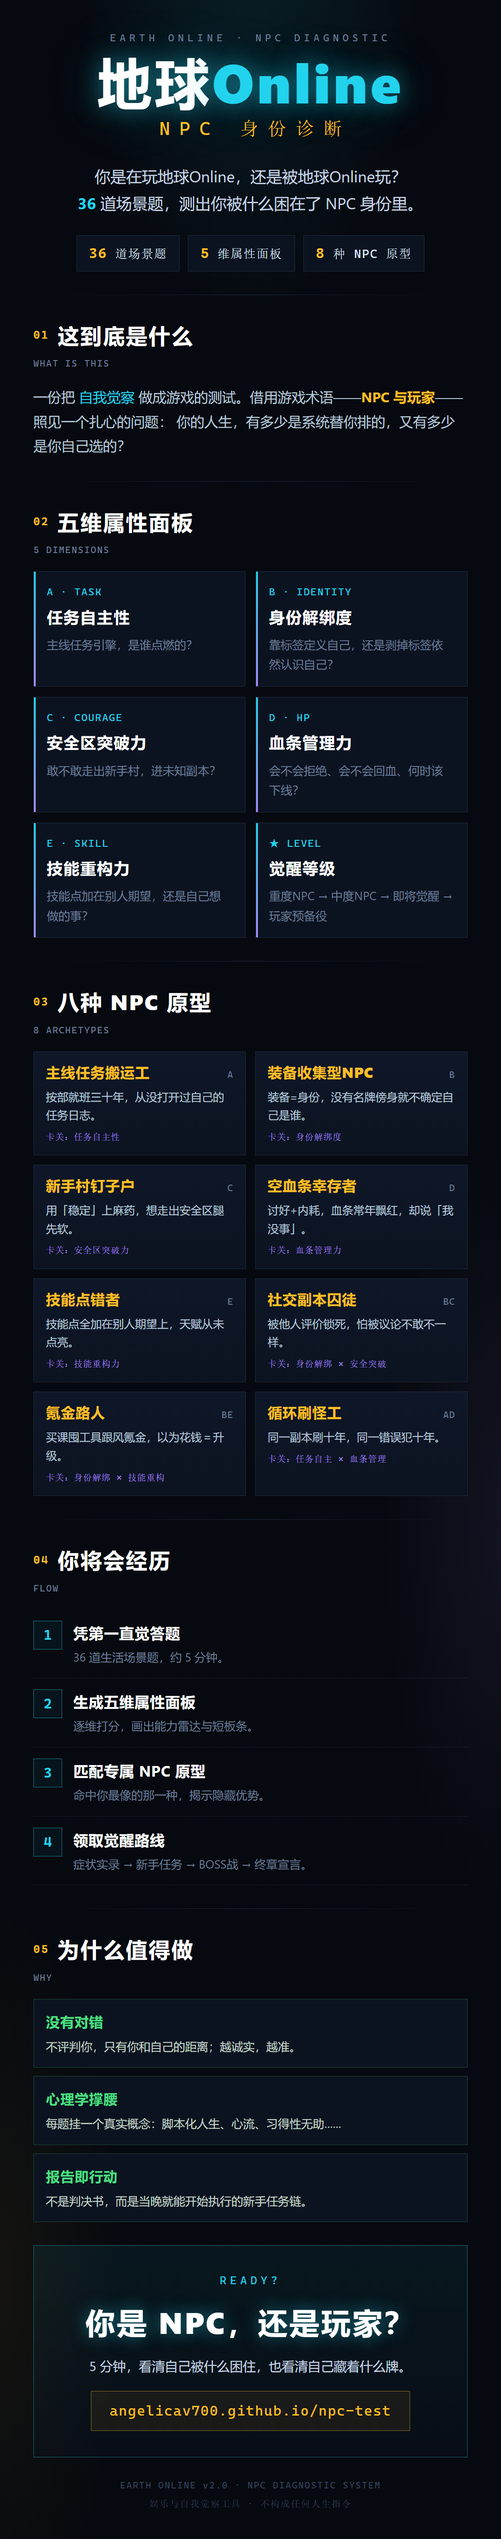
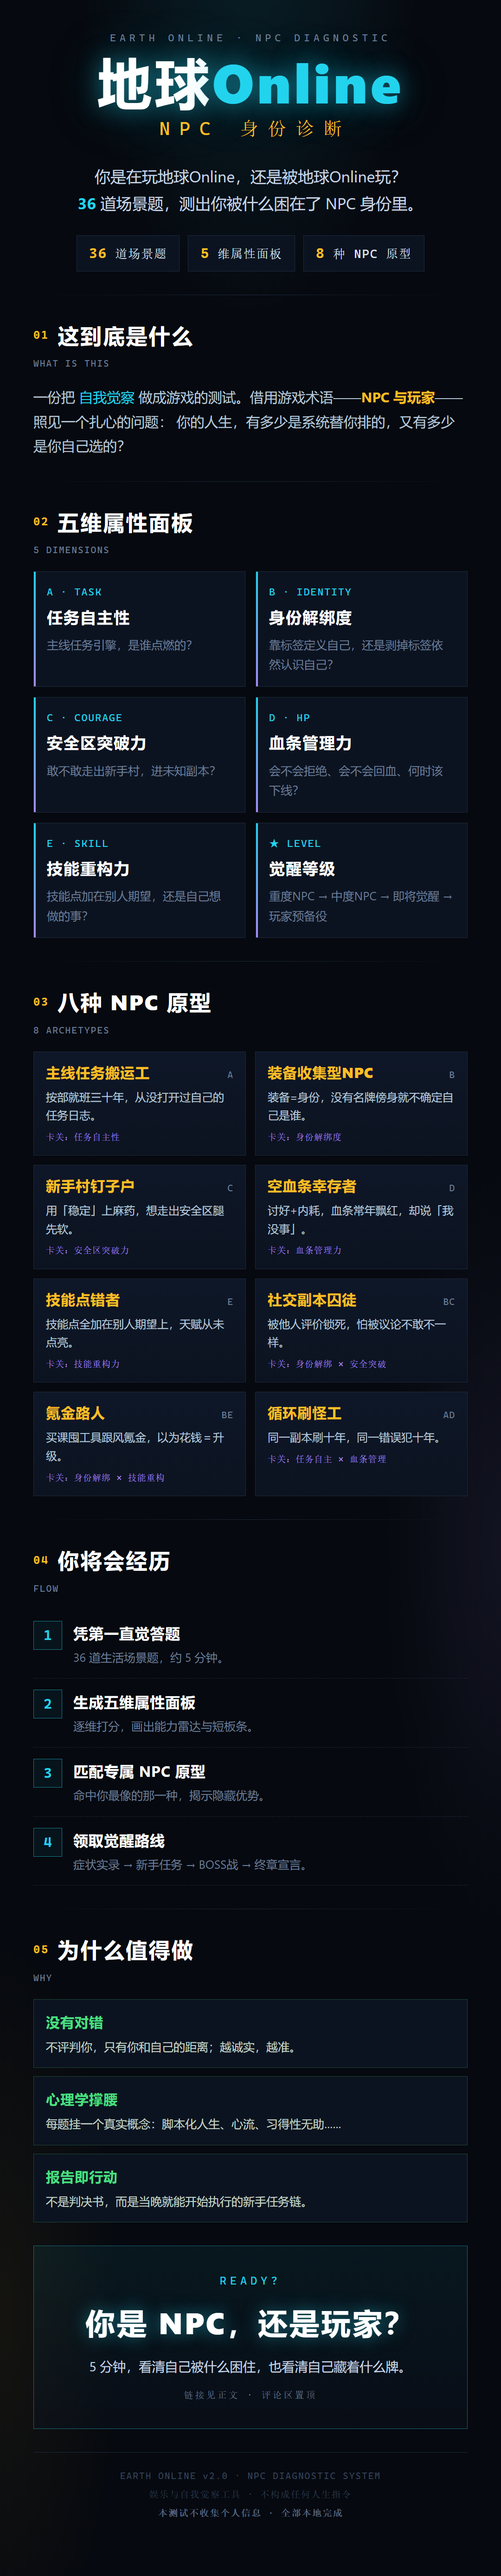
remove URL from poster CTA; refresh share poster (poster.png) without site link

diff --git a/poster.html b/poster.html
@@ -81,11 +81,11 @@
     border:1px solid rgba(34,211,238,.45);background:linear-gradient(180deg,rgba(34,211,238,.07),rgba(12,19,32,.4));}
   .cta .ft{font-family:var(--mono);font-size:24px;color:var(--cyan);letter-spacing:8px;margin-bottom:18px;}
   .cta .fh{font-size:64px;font-weight:900;color:#fff;letter-spacing:4px;margin-bottom:20px;text-shadow:0 0 36px rgba(34,211,238,.5);}
-  .cta .fp{font-size:28px;color:#c6d5e6;line-height:1.7;margin-bottom:30px;}
-  .url{display:inline-block;font-family:var(--mono);font-size:30px;color:var(--gold);
-    border:1px solid rgba(251,191,36,.5);background:rgba(251,191,36,.07);padding:18px 40px;letter-spacing:2px;}
+  .cta .fp{font-size:28px;color:#c6d5e6;line-height:1.7;}
+  .cta .hint{font-family:var(--mono);font-size:20px;color:var(--dim);letter-spacing:4px;margin-top:22px;}
 
-  .footer{text-align:center;font-family:var(--mono);font-size:20px;color:#33425a;letter-spacing:2px;margin-top:40px;line-height:2;}
+  .footer{text-align:center;font-family:var(--mono);font-size:20px;color:#33425a;letter-spacing:2px;margin-top:50px;line-height:2;padding:30px 0 60px;border-top:1px solid #1c2a3d;}
+  .footer b{color:#5a6a85;font-weight:600;}
 </style>
 </head>
 <body>
@@ -166,11 +166,12 @@
     <div class="ft">READY?</div>
     <div class="fh">你是 NPC，还是玩家？</div>
     <p class="fp">5 分钟，看清自己被什么困住，也看清自己藏着什么牌。</p>
-    <div class="url">angelicav700.github.io/npc-test</div>
+    <div class="hint">链接见正文 · 评论区置顶</div>
   </div>
 
   <div class="footer">EARTH ONLINE v2.0 · NPC DIAGNOSTIC SYSTEM<br>
-    娱乐与自我觉察工具 · 不构成任何人生指令</div>
+    娱乐与自我觉察工具 · 不构成任何人生指令<br>
+    <b>本测试不收集个人信息 · 全部本地完成</b></div>
 
 </div>
 </div>
